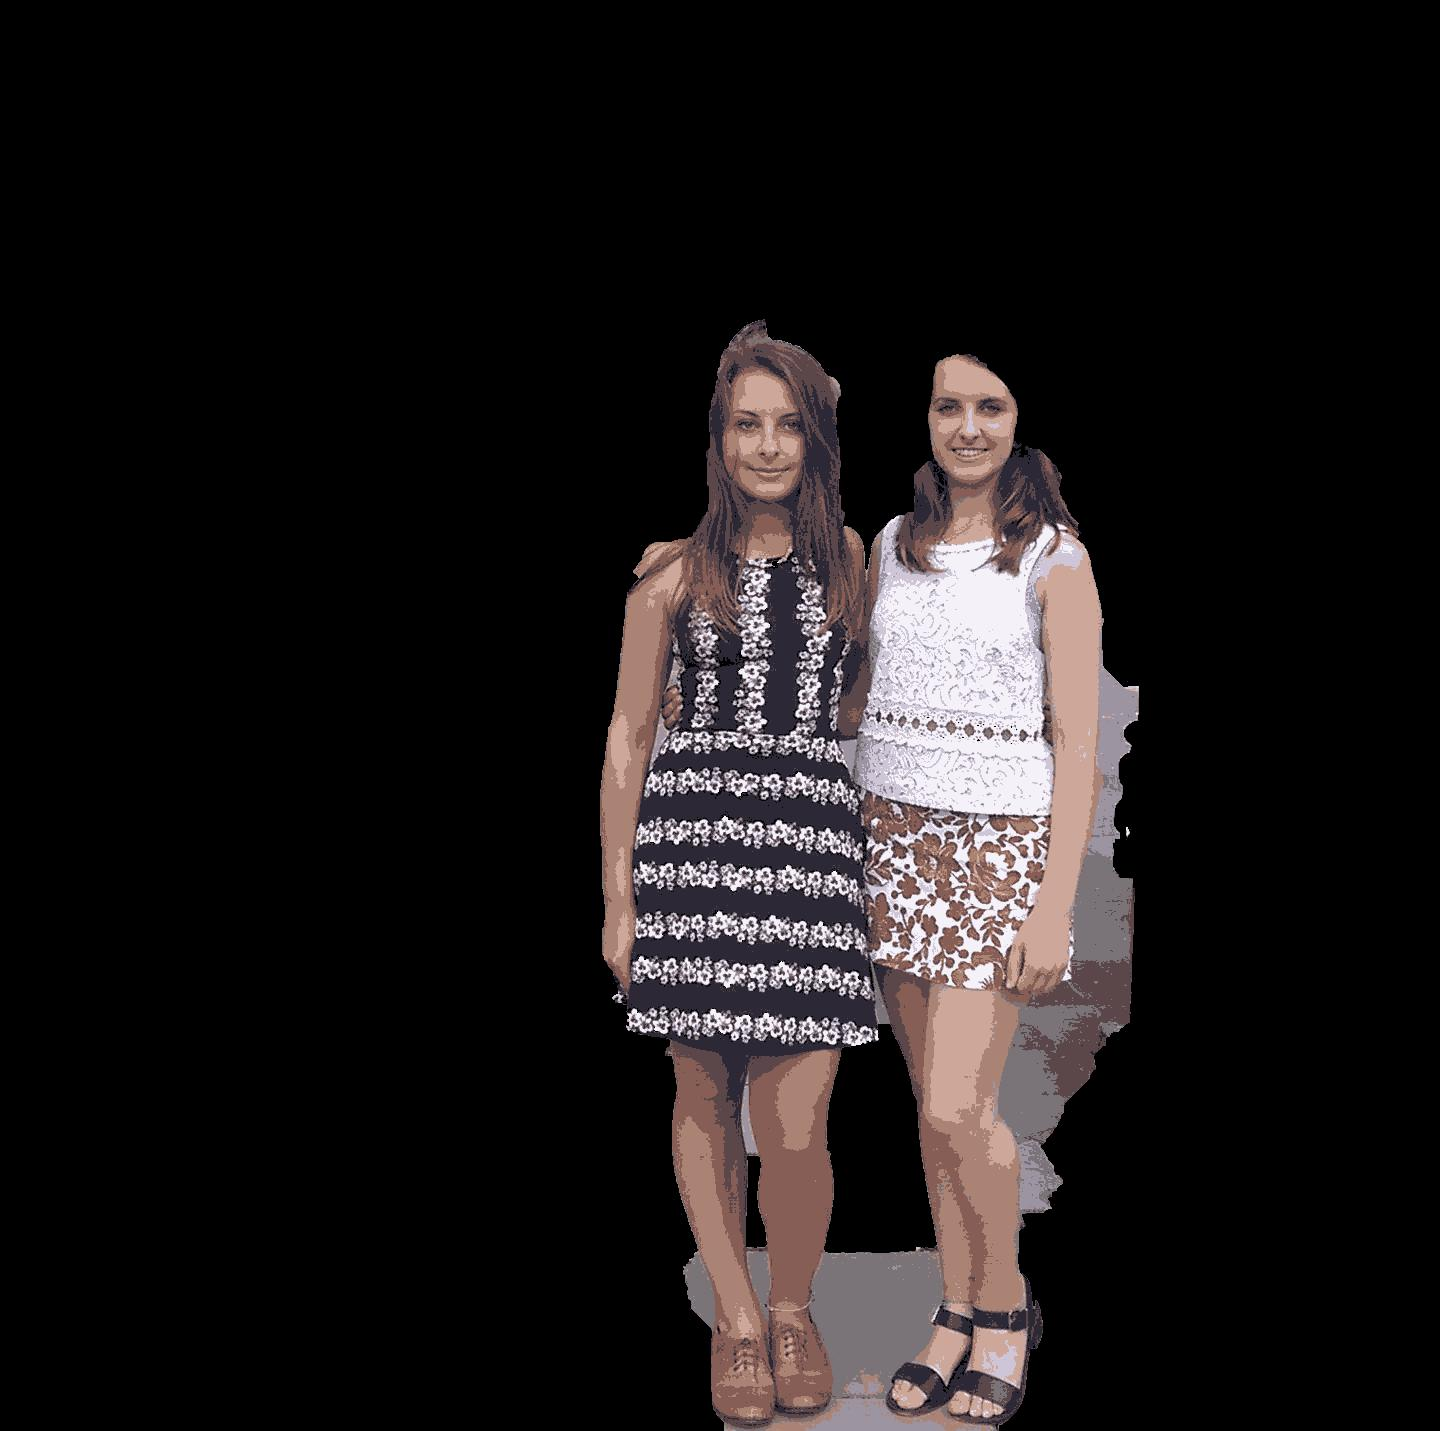
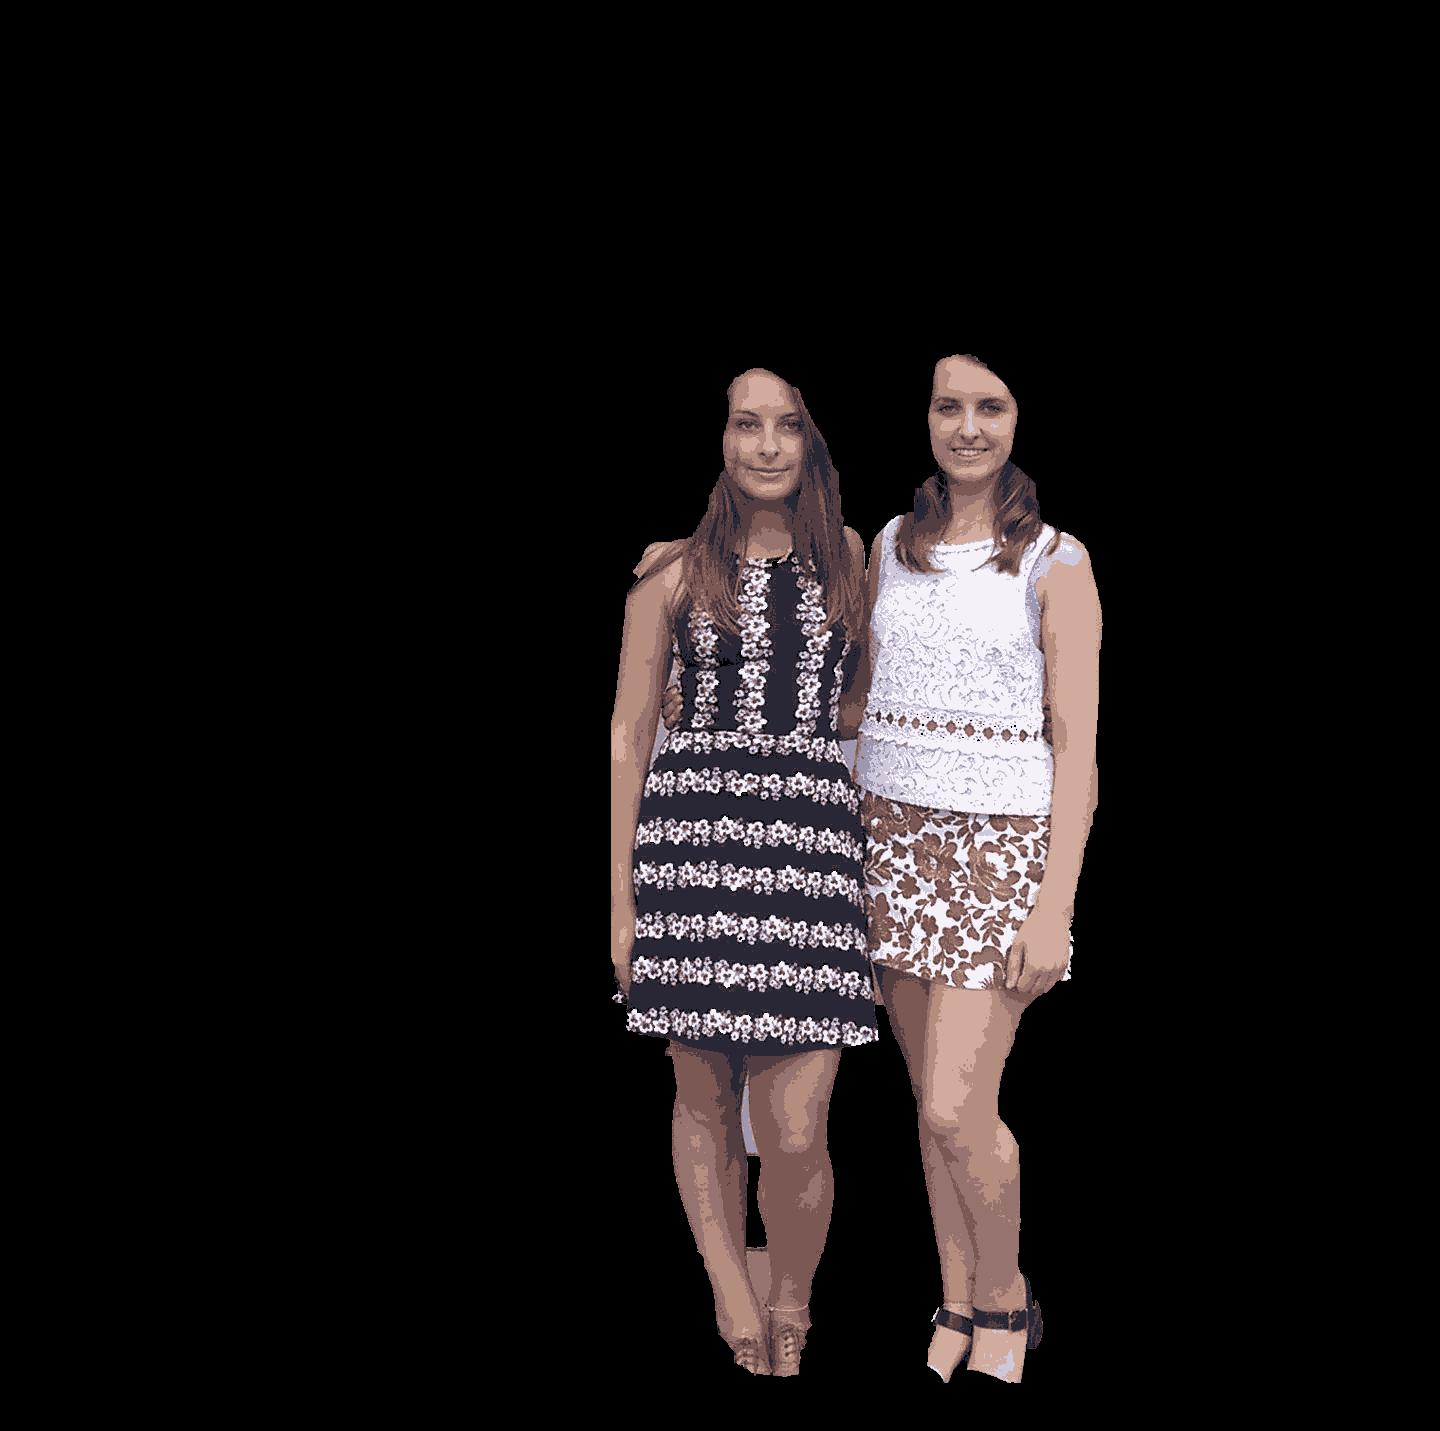
Included resnet to find mask for foreground objects

diff --git a/ColouringClass.py b/ColouringClass.py
@@ -2,16 +2,16 @@ from matplotlib.pyplot import imsave
 from sklearn.cluster import KMeans
 import pandas as pd
 import os
-
+import warnings
+warnings.filterwarnings('ignore')
 # For running inference on the TF-Hub module.
 import tensorflow as tf
 import tensorflow_hub as hub
-
 # For downloading the image.
 import matplotlib.pyplot as plt
-
 # For drawing onto the image.
 import numpy as np
+np.set_printoptions(suppress=True)
 from PIL import Image
 from PIL import ImageColor
 from PIL import ImageDraw
@@ -25,6 +25,7 @@ def draw_bounding_box_on_image(image, ymin, xmin, ymax, xmax, color, font, thick
     im_width, im_height = image.size
     (left, right, top, bottom) = (xmin * im_width, xmax * im_width,
                                   ymin * im_height, ymax * im_height)
+    print("dir", left, right, top, bottom)
     draw.line([(left, top), (left, bottom), (right, bottom), (right, top),
                (left, top)],
               width=thickness,
@@ -54,8 +55,10 @@ def draw_bounding_box_on_image(image, ymin, xmin, ymax, xmax, color, font, thick
                   font=font)
         text_bottom -= text_height - 2 * margin
 
+    return left, right, top, bottom
 
-class RegionDetector():
+
+class RegionDetector:
     def __init__(self, file_name, file_path, path):
         self.file_name = file_name
         self.file_path = file_path
@@ -67,14 +70,12 @@ class RegionDetector():
         self.img = cv2.imread(self.file_path)
         self.width, self.height, _ = self.img.shape
 
-
     def load_model(self):
         converted_img = tf.image.convert_image_dtype(self.img, tf.float32)[tf.newaxis, ...]
         result = self.detector(converted_img)
         self.result = {key: value.numpy() for key, value in result.items()}
 
-    def draw_boxes(self, max_boxes=1, min_score=0.5):
-        global ymin, xmin, ymax, xmax, image_
+    def draw_boxes(self, max_boxes=2, min_score=0.5):
         boxes = self.result["detection_boxes"]
         class_names = self.result["detection_class_entities"]
         scores = self.result["detection_scores"]
@@ -86,18 +87,31 @@ class RegionDetector():
         for i in range(min(boxes.shape[0], max_boxes)):
             if scores[i] >= min_score:
                 ymin, xmin, ymax, xmax = tuple(boxes[i])
-                display_str = "{}: {}%".format(class_names[i].decode("ascii"),
-                                               int(100 * scores[i]))
+                display_str = "{}: {}%".format(class_names[i].decode("ascii"), int(100 * scores[i]))
                 color = colors[hash(class_names[i]) % len(colors)]
                 image_ = Image.fromarray(np.uint8(self.img)).convert("RGB")
-                draw_bounding_box_on_image(image_, ymin, xmin, ymax, xmax, color, font, display_str_list=[display_str])
+                left, right, top, bottom = draw_bounding_box_on_image(image_, ymin, xmin, ymax, xmax, color, font, display_str_list=[display_str])
+                if i == 0:
+                    large_box = np.zeros([1, 4])
+                    large_box[0, 0] = left
+                    large_box[0, 1] = right
+                    large_box[0, 2] = top
+                    large_box[0, 3] = bottom
+                else:
+                    pass
                 np.copyto(self.img, np.array(image_))
+                large_box[0, 0] = min(large_box[0, 0], left)
+                large_box[0, 1] = max(large_box[0, 1], right)
+                large_box[0, 2] = min(large_box[0, 2], top)
+                large_box[0, 3] = max(large_box[0, 3], bottom)
 
+        left, right, top, bottom = large_box.T
+        print("Gfdbdf", left, right, top, bottom)
         image_ = cv2.cvtColor(np.array(image_), cv2.COLOR_BGR2RGB)
         plt.imshow(image_)
         plt.show()
 
-        return ymin*self.height, xmin*self.width, ymax*self.height, xmax*self.width
+        return left, right, top, bottom
 
 
 class GrabCut:
@@ -117,17 +131,10 @@ class GrabCut:
         original_image_rgb = cv2.cvtColor(self.original_image, cv2.COLOR_BGR2RGB)
         imsave(self.output_path + "/Original Image.jpg", original_image_rgb)
 
-    def grab_cut(self, xmin, xmax, ymin, ymax):
-        height, width = self.original_image.shape[0], self.original_image.shape[1]
+    def grab_cut(self, left, right, top, bottom):
         mask = np.zeros(self.original_image.shape[:2], dtype="uint8")
-        print("xmin", xmin)
-        print("xmax", xmax)
-        print("ymin", ymin)
-        print("ymax", ymax)
-        rect = (xmin, ymin, ymax+xmin, xmax+ymin)
-        print(rect)
+        rect = (left, top, right - left, bottom - top)
 
-        #xmin is
         fgModel = np.zeros((1, 65), dtype="float")
         bgModel = np.zeros((1, 65), dtype="float")
 
@@ -155,7 +162,7 @@ class GrabCut:
             plt.imsave(self.output_path + name + ".jpg", valueMask)
             plt.show()
 
-    def plot_outputs(self):
+    def plot_outputs(self, model_type):
         # we'll set all definite background and probable background pixels
         # to 0 while definite foreground and probable foreground pixels are
         # set to 1
@@ -166,7 +173,7 @@ class GrabCut:
         # GrabCut to generate our final output image
         output = cv2.bitwise_and(self.original_image, self.original_image, mask=outputMask)
         output = cv2.cvtColor(output, cv2.COLOR_BGR2RGB)
-        plt.imsave(self.output_path + "GrabCut.jpg", output)
+        plt.imsave(self.output_path + "GrabCut" + str(model_type) + ".jpg", output)
 
         image = cv2.cvtColor(self.original_image, cv2.COLOR_BGR2RGB)
         plt.imshow(image)
@@ -198,7 +205,7 @@ class Colouring:
         # Flatten the image
         imag = np.array(self.original_image).reshape(rows * cols, 3)
 
-        K = range(10, 11)
+        K = range(15, 16)
         for k in K:
             km = KMeans(n_clusters=k)
             km.fit(imag)
@@ -230,12 +237,12 @@ class Colouring:
         # The output of the k-means algorithm is an array in the form of Blue,Green,Red (BGR) which needs to be converted to grayscale before we conduct a Gaussian Blur.
         self.compressed_img = cv2.cvtColor(self.compressed_image, cv2.COLOR_BGR2GRAY)
 
-        k = 9  # Size of the kernel for the Gaussian Blur
+        k = 9  # Size of the kernel for the Blur
         # blurred = cv2.GaussianBlur(self.compressed_img, (k, k), sigmaX=(k - 1) / 6)
         blurred = cv2.bilateralFilter(self.compressed_img, k, 75, 75)
 
         # Conduct Adaptive Thresholding to the blurred image
-        threshold_image = cv2.adaptiveThreshold(blurred, 255, cv2.ADAPTIVE_THRESH_GAUSSIAN_C, cv2.THRESH_BINARY, 25, 1)
+        threshold_image = cv2.adaptiveThreshold(blurred, 255, cv2.ADAPTIVE_THRESH_GAUSSIAN_C, cv2.THRESH_BINARY, 11, 1)
         self.threshold_image = cv2.morphologyEx(threshold_image, cv2.MORPH_CLOSE, (15, 15))
         imsave((self.output_path + "Threshold Gray.jpg"), threshold_image, cmap="gray")
 
@@ -244,25 +251,26 @@ class Colouring:
         imsave((self.output_path + "Threshold Gray Bil Filter Median Blur.jpg"), self.threshold_image, cmap="gray")
 
 
-file_name = "race"
-file_path = "MultiInputs/" + file_name + ".jpg"
-output_path = "MultiOutput/" + file_name + "/"
+detectors = ["Faster-RCNN"]
 
+for model_type in detectors:
+    file_name = "sophia"
+    file_path = "MultiInputs/" + file_name + ".jpg"
+    output_path = "MultiOutput/" + file_name + "/"
 
-rnn = RegionDetector(file_name=(file_name + ".jpg"), file_path=file_path, path=output_path)
-rnn.load_img()
-rnn.load_model()
-ymin, xmin, ymax, xmax = rnn.draw_boxes(max_boxes=1)
+    FasterRCNN = RegionDetector(file_name=(file_name + ".jpg"), file_path=file_path, path=output_path)
+    FasterRCNN.load_img()
+    FasterRCNN.load_model()
+    left, right, top, bottom = FasterRCNN.draw_boxes(max_boxes=2)
 
+    cutter = GrabCut(name=file_name, file_path=file_path, path=output_path)
+    cutter.create_directory()
+    cutter.grab_cut(int(left), int(right), int(top), int(bottom))
+    cutter.plot_outputs(model_type=model_type)
 
-cutter = GrabCut(name=file_name, file_path=file_path, path=output_path)
-cutter.create_directory()
-cutter.grab_cut(int(xmin), int(xmax), int(ymin), int(ymax))
-cutter.plot_outputs()
+    file_path = "MultiOutput/" + file_name + "/" + "GrabCut" + str(model_type) + ".jpg"
 
-file_path = "MultiOutput/" + file_name + "/" + "GrabCut.jpg"
-
-colouring = Colouring(name=file_name, output=output_path, path=file_path)
-colouring.calculate_optimal_clusters()
-colouring.thresholding()
-# colouring.median(filter_size=7)
+    colouring = Colouring(name=file_name, output=output_path, path=file_path)
+    colouring.calculate_optimal_clusters()
+    colouring.thresholding()
+    # colouring.median(filter_size=7)

diff --git a/ImageSegmentation.py b/ImageSegmentation.py
@@ -1,0 +1,59 @@
+import torch
+import matplotlib.pyplot as plt
+from PIL import Image
+from torchvision import transforms
+import os
+os.environ['KMP_DUPLICATE_LIB_OK'] = 'True'
+
+
+class MaskFinder:
+    def __init__(self, file_name):
+        self.file_name = file_name
+        self.file_path = "MultiInputs/" + file_name + ".jpg"
+
+    def load_model(self):
+        self.model = torch.hub.load('pytorch/vision:v0.9.0', 'fcn_resnet101', pretrained=True)
+
+    def load_image(self):
+        self.input_image = Image.open(self.file_path)
+        plt.imshow(self.input_image)
+        plt.show()
+
+    def transform_image(self):
+        preprocess = transforms.Compose([
+            transforms.ToTensor(),
+            transforms.Normalize(mean=[0.485, 0.456, 0.406], std=[0.229, 0.224, 0.225]),
+        ])
+
+        input_tensor = preprocess(self.input_image)
+        self.input_batch = input_tensor.unsqueeze(0)
+
+    def make_predictions(self):
+        with torch.no_grad():
+            output = self.model(self.input_batch)['out'][0]
+
+        self.output_predictions = output.argmax(0)
+
+    def plot_mask(self):
+        # create a color palette, selecting a color for each class
+        palette = torch.tensor([2 ** 25 - 1, 2 ** 15 - 1, 2 ** 21 - 1])
+        colors = torch.as_tensor([i for i in range(21)])[:, None] * palette
+        colors = (colors % 255).numpy().astype("uint8")
+
+        # plot the semantic segmentation predictions of 21 classes in each color
+        r = Image.fromarray(self.output_predictions.byte().cpu().numpy()).resize(self.input_image.size)
+        r.putpalette(colors)
+
+        plt.imshow(r)
+        plt.show()
+
+
+FCNResnet = MaskFinder(file_name="family")
+FCNResnet.load_model()
+FCNResnet.load_image()
+FCNResnet.transform_image()
+FCNResnet.make_predictions()
+FCNResnet.plot_mask()
+
+
+# model = torch.hub.load('pytorch/vision:v0.9.0', 'deeplabv3_resnet101', pretrained=True)

diff --git a/gsd.py b/gsd.py
@@ -1,0 +1,12 @@
+# pip install keras-segmentation
+from keras_segmentation.pretrained import pspnet_50_ADE_20K
+
+model = pspnet_50_ADE_20K() # load the pretrained model trained on ADE20k dataset
+
+# load any of the 3 pretrained models
+
+out = model.predict_segmentation(
+    inp="MultiInputs/horse.jpg",
+    out_fname="out.png"
+)
+
